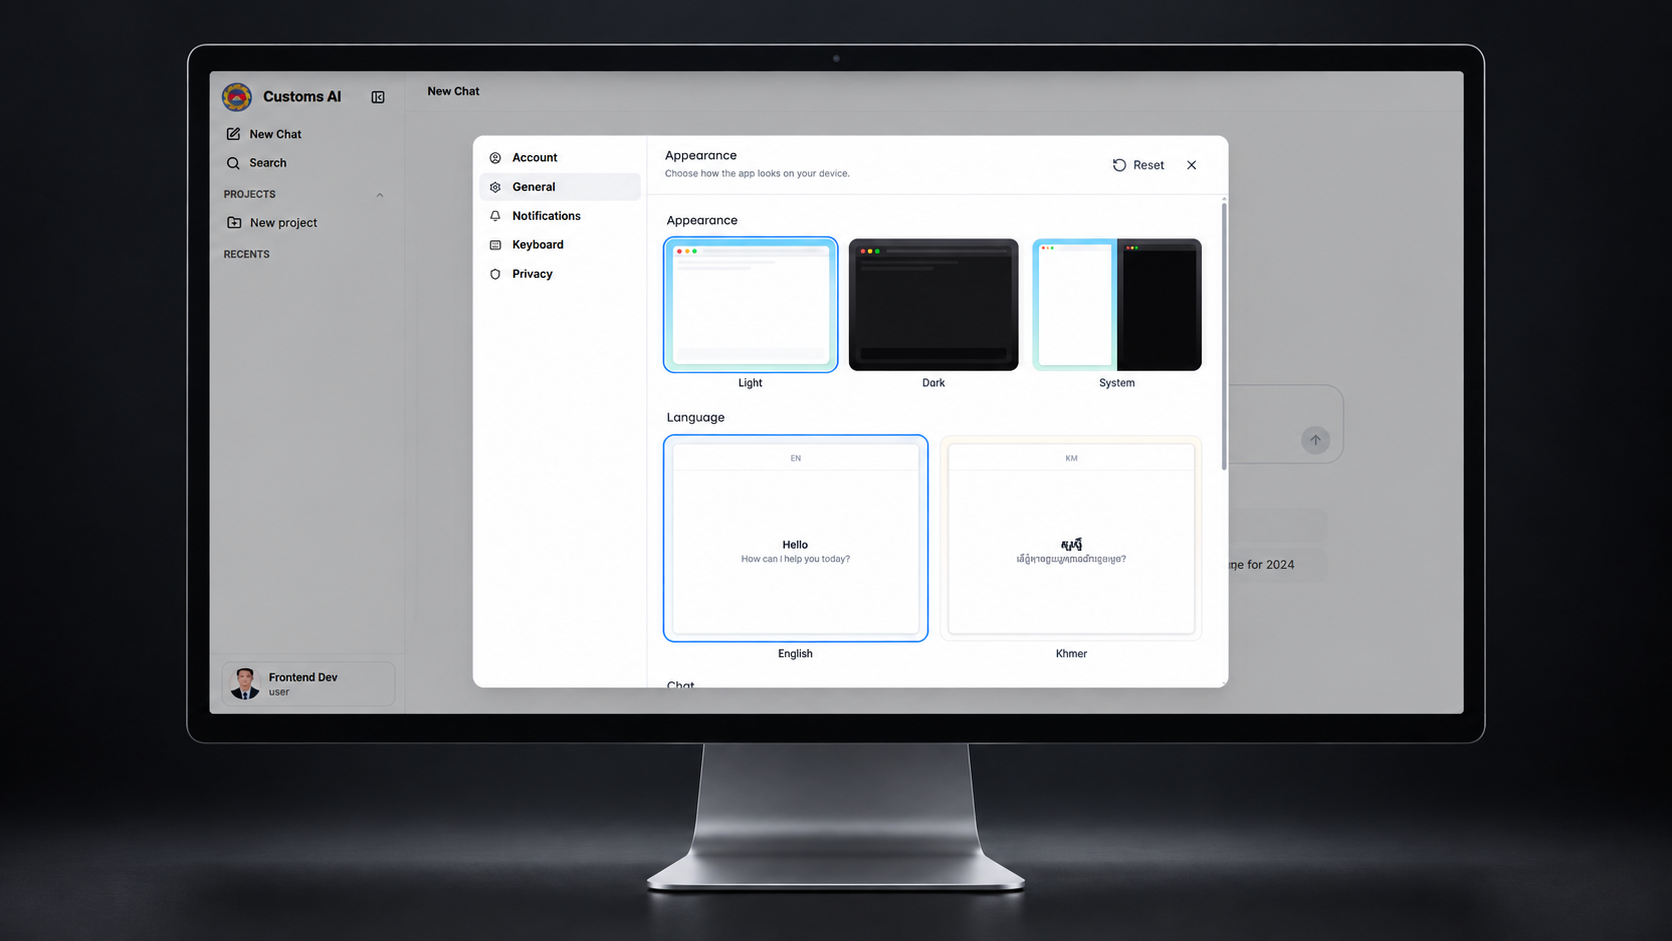
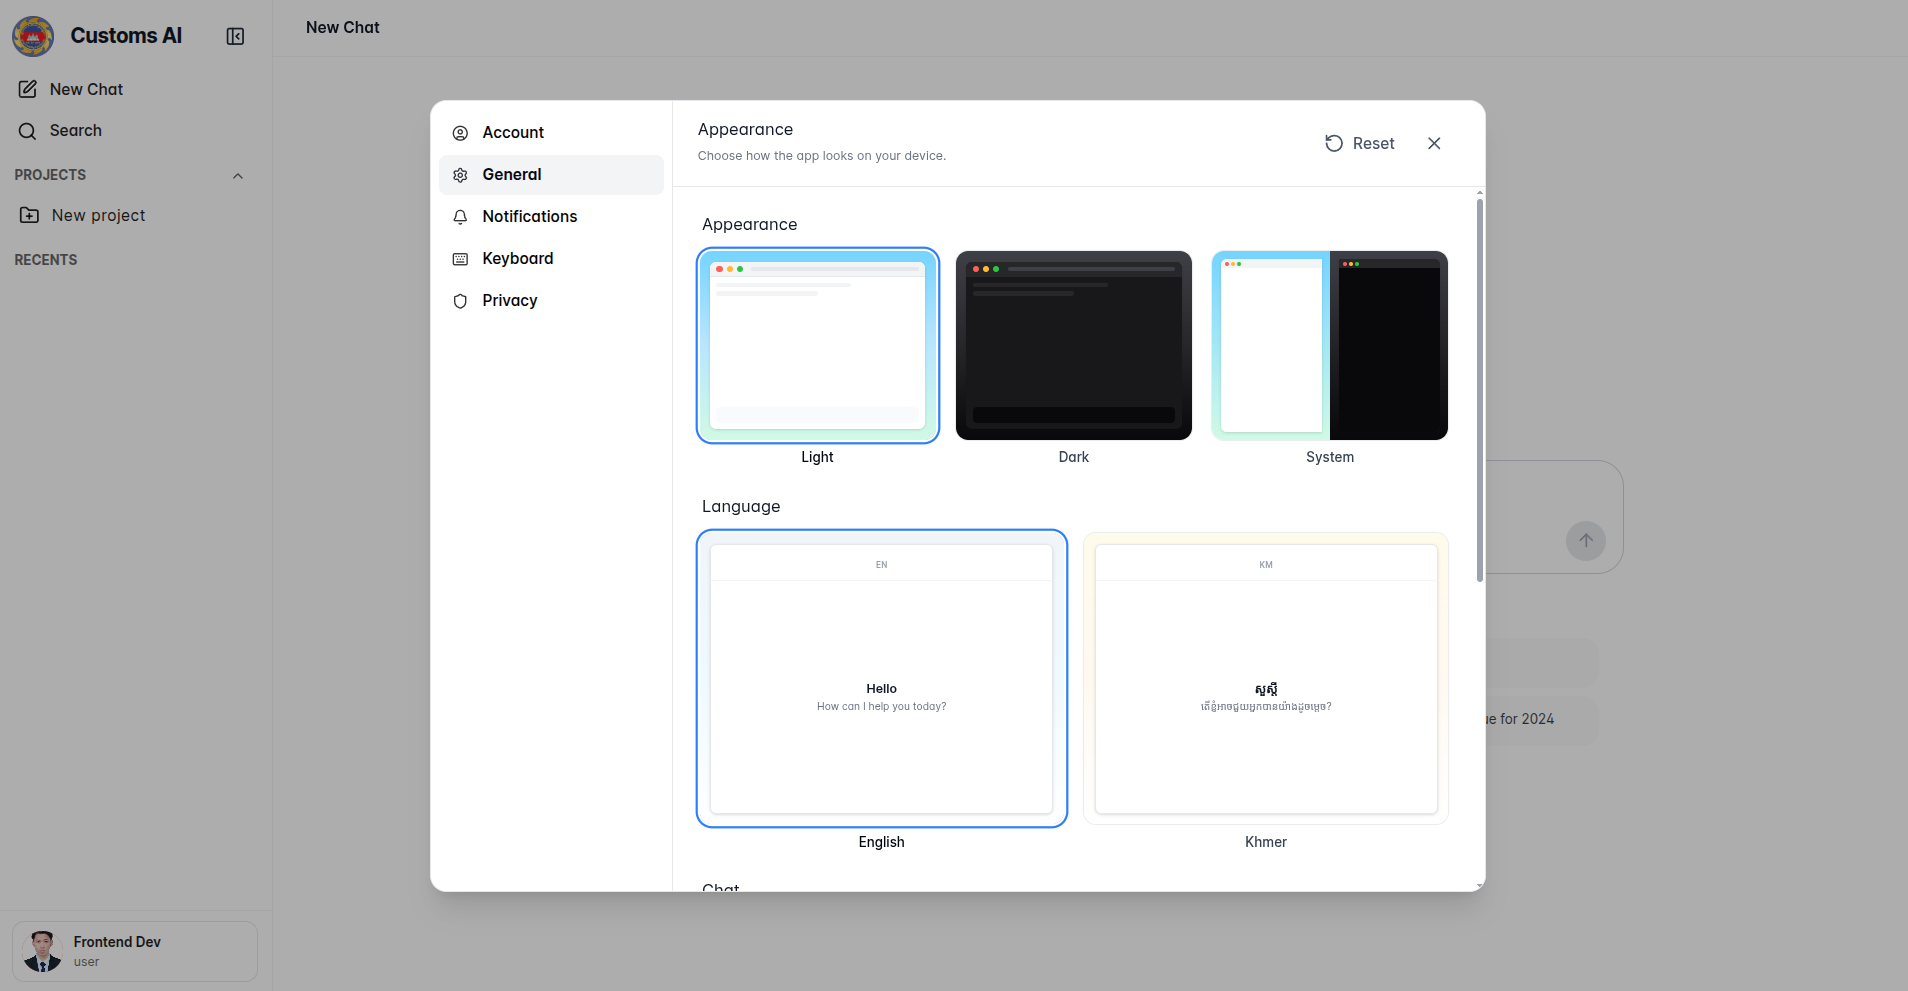
docs: publish original settings screenshot

diff --git a/README.md b/README.md
@@ -11,7 +11,7 @@ Built as a portfolio-scale system rather than a single chat UI, the repository i
 | ![Desktop HS-code result with a ranked table and source panel](frontend/portfolio-hs-code-desktop.png) | ![Mobile HS-code result with ranked customs-code candidates](frontend/portfolio-hs-code-mobile.png) |
 | **Desktop HS-code workflow.** A ranked customs-code result, supporting source panel, follow-up prompts, and persistent chat navigation. | **Responsive mobile workflow.** The HS-code result and follow-up chat controls adapt to a mobile device layout. |
 
-![Appearance and language settings](frontend/image.png)
+![Appearance and language settings](frontend/portfolio-settings-desktop.png)
 
 **Personalization settings.** Appearance mode and English/Khmer language preferences are presented in the application’s settings experience.
 
